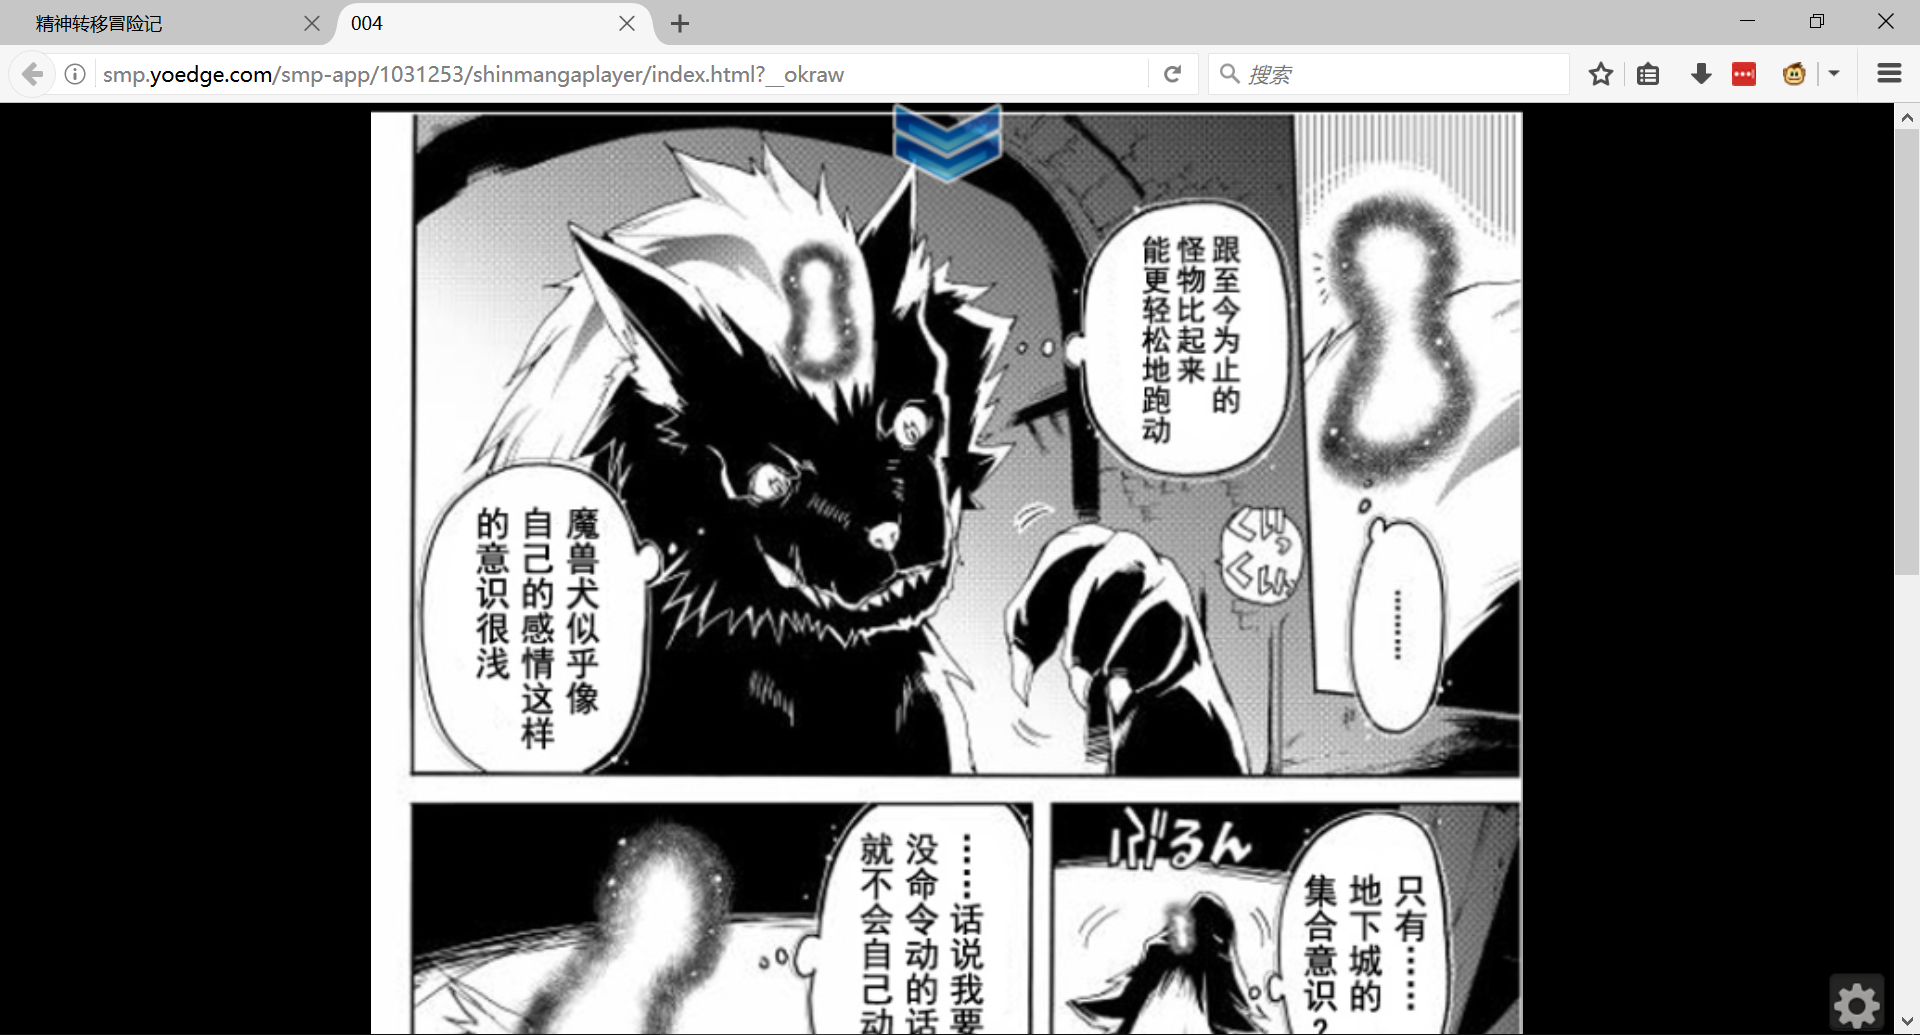
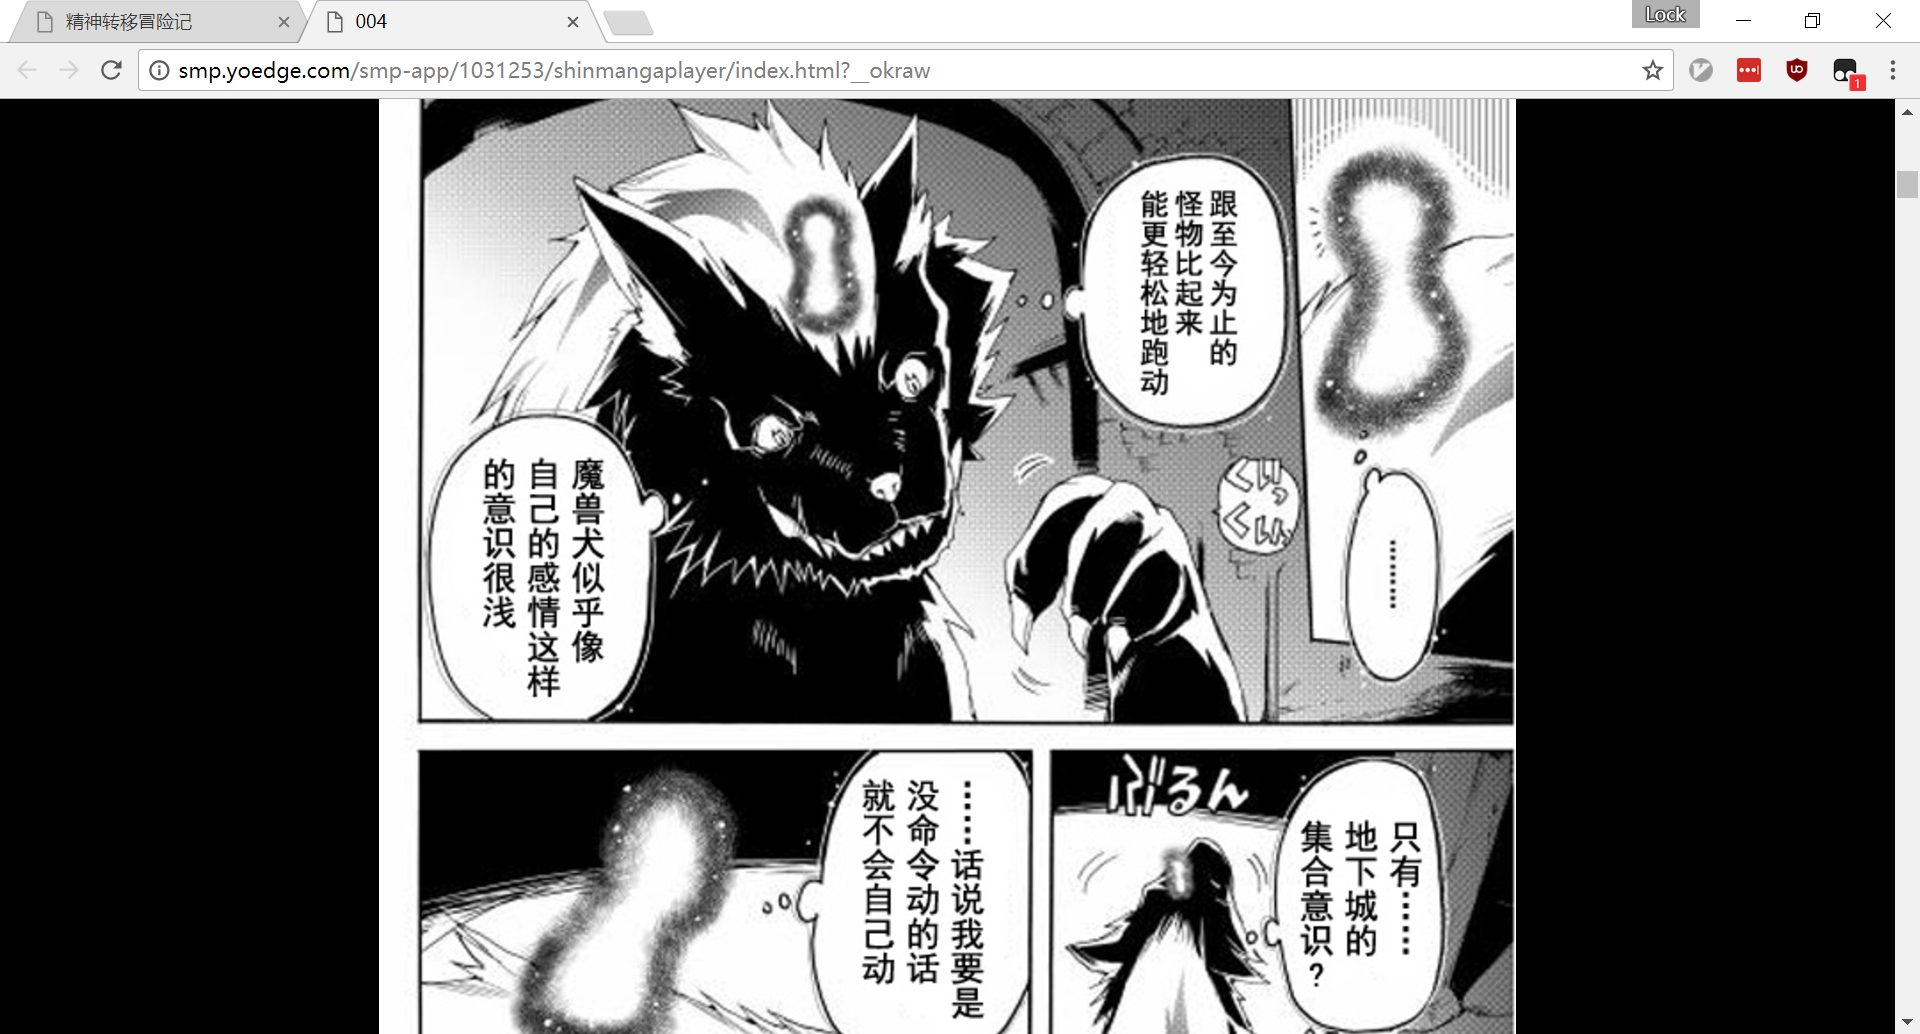
去除原有播放器，一次性加载所有漫画原图

diff --git a/README.md b/README.md
@@ -6,7 +6,9 @@
 
 大部分漫画软件都会提供竖屏与横屏两种阅读模式，竖屏有更好的全局感，而横屏则可以更仔细地看清漫画细节和对话。条漫用竖屏非常合适，但一般的漫画个人更喜欢横屏阅读。
 
-灰机的漫画网站为了实现跨平台和动态漫画，自己做了一个播放器渲染漫画，只提供竖屏模式，而且不响应浏览器的缩放（虽然播放器自己做了缩放功能，但在电脑端非常不好用），这让我看漫画时觉得非常吃力，于是我编写了这个脚本实现了漫画网站的横屏阅读，同时也把缩放调整为符合电脑端使用习惯的模式，顺便增加了一些便捷的快捷键，可以获得更好的阅读体验。
+灰机的漫画网站为了实现跨平台和动态漫画，自己做了一个播放器渲染漫画，只提供竖屏模式，字体很小，而且不能正常缩放，让我看漫画时觉得非常吃力。
+
+于是我编写了这个脚本，实现了漫画的横屏显示，更好地利用了屏幕空间，而且一次性加载所有漫画，免去了翻页和等待，此外，还定制了部分快捷键，让观看更加便捷。
 
 下图为显示效果，看对话方便了许多：
 
@@ -20,38 +22,38 @@
 
 2. 安装脚本
 
-   进入Grease Fork上该脚本的[主页](https://greasyfork.org/zh-CN/scripts/28767-yoedge-horizontal-screen)，点击“安装此脚本”。
+   进入Greasy Fork上该脚本的[主页](https://greasyfork.org/zh-CN/scripts/28767-yoedge-horizontal-screen)，点击“安装此脚本”。
 
 安装完成后，再进入灰机汉化组的网站看漫画，就会以横屏模式显示。
 
-附：[灰机汉化组翻译索引](https://tieba.baidu.com/p/4354214551)
+附：[灰机汉化组贴吧](https://tieba.baidu.com/f?kw=%E7%81%B0%E6%9C%BA%E6%B1%89%E5%8C%96%E7%BB%84&ie=utf-8)
 
 # 功能介绍
 
-1. **横屏显示**：类似手机上的横屏，但没有把漫画做到与屏幕等宽，而是保持了一个合适的宽度，既能看清漫画细节又保持了整体观感
+1. **横屏显示**：类似手机上的横屏阅读，但并没有做成与屏幕等宽，而是把漫画设为屏幕宽度的60%，兼顾全局观感与细节阅读
 
-2. **缩放修正**：屏蔽原有“图内容放大，显示区域不变”的模式，修正为符合通常使用习惯的模式，缩放比例最大为与屏幕等宽，最小为与屏幕等高（即原本的竖屏模式），缩放清晰度取决于图源本身
+2. **漫画一次性加载**：去除原有的播放器，一次性加载所有漫画原图，无需翻页与等待，支持图片右键另存
 
-3. **点击翻页调整**：原播放器鼠标点击漫画上半/下半部分来翻页，安装脚本后漫画页面变大，有滚动条，该行为不再适用，于是调整为点击漫画顶部/底部蓝色箭头区域翻页
+3. **灵活缩放**：添加图片缩放功能，最大与屏幕等宽，最小与屏幕等高（屏幕刚好够放一张图，即原本的竖屏模式），缩放清晰度取决于图源本身
 
 4. **自定义快捷键**：
 
-   | 按键    | 功能                          |
-   | :---- | :-------------------------- |
-   | =/-/0 | 等号/减号/数字0，对应漫画的放大、缩小、恢复默认缩放 |
-   | j/k   | 视图区域下移/上移                   |
-   | h/l   | 上一页/下一页                     |
-   | n     | 下一话                         |
+   | 按键    | 功能             |
+   | :---- | :------------- |
+   | =/-/0 | 放大/缩小/恢复默认缩放大小 |
+   | j/k   | 视图区域下移/上移      |
+   | h/l   | 滚动到顶部/滚动到底部    |
+   | n     | 下一话            |
 
-   快捷键全部定义在右手区域，单手即可完成所有浏览行为，相对用鼠标操作来说更轻松便捷。
+   快捷键全部定义在右手区域，单手即可完成所有浏览行为，相对用鼠标操作来说更轻松便捷
 
 
 # 注意事项
 
 * **平滑滚动兼容（重要）**
 
-  当前所用的平滑滚动只有Firefox、Chrome、Opera支持，其中只有Firefox默认开启，后两者需要在浏览器地址栏输入chrome://flags/#enable-experimental-web-platform-features然后激活这一项，否则虽然不影响正常功能，但略影响阅读体验。（不使用j/k快捷键的话可忽略此条）
+  当前所用的平滑滚动只有Firefox、Chrome、Opera支持，其中只有Firefox默认开启，后两者需要在浏览器地址栏输入chrome://flags/#enable-experimental-web-platform-features然后激活此项，否则虽然能正常滚动，但没有平滑效果。（不使用j/k快捷键的话可忽略）
 
-* 快捷键冲突
+# 致谢 
 
-  如果浏览器装有VimFx或Vimium等Vim快捷键插件，需要把yoedge.com加入Vim插件黑名单，否则有快捷键冲突。
+本脚本的核心代码参考了[FeiLong](https://greasyfork.org/zh-CN/users/28687-feilong)的脚本【[飞机汉化](https://greasyfork.org/zh-CN/scripts/24749-%E9%A3%9E%E6%9C%BA%E6%B1%89%E5%8C%96)】，在此致谢。
